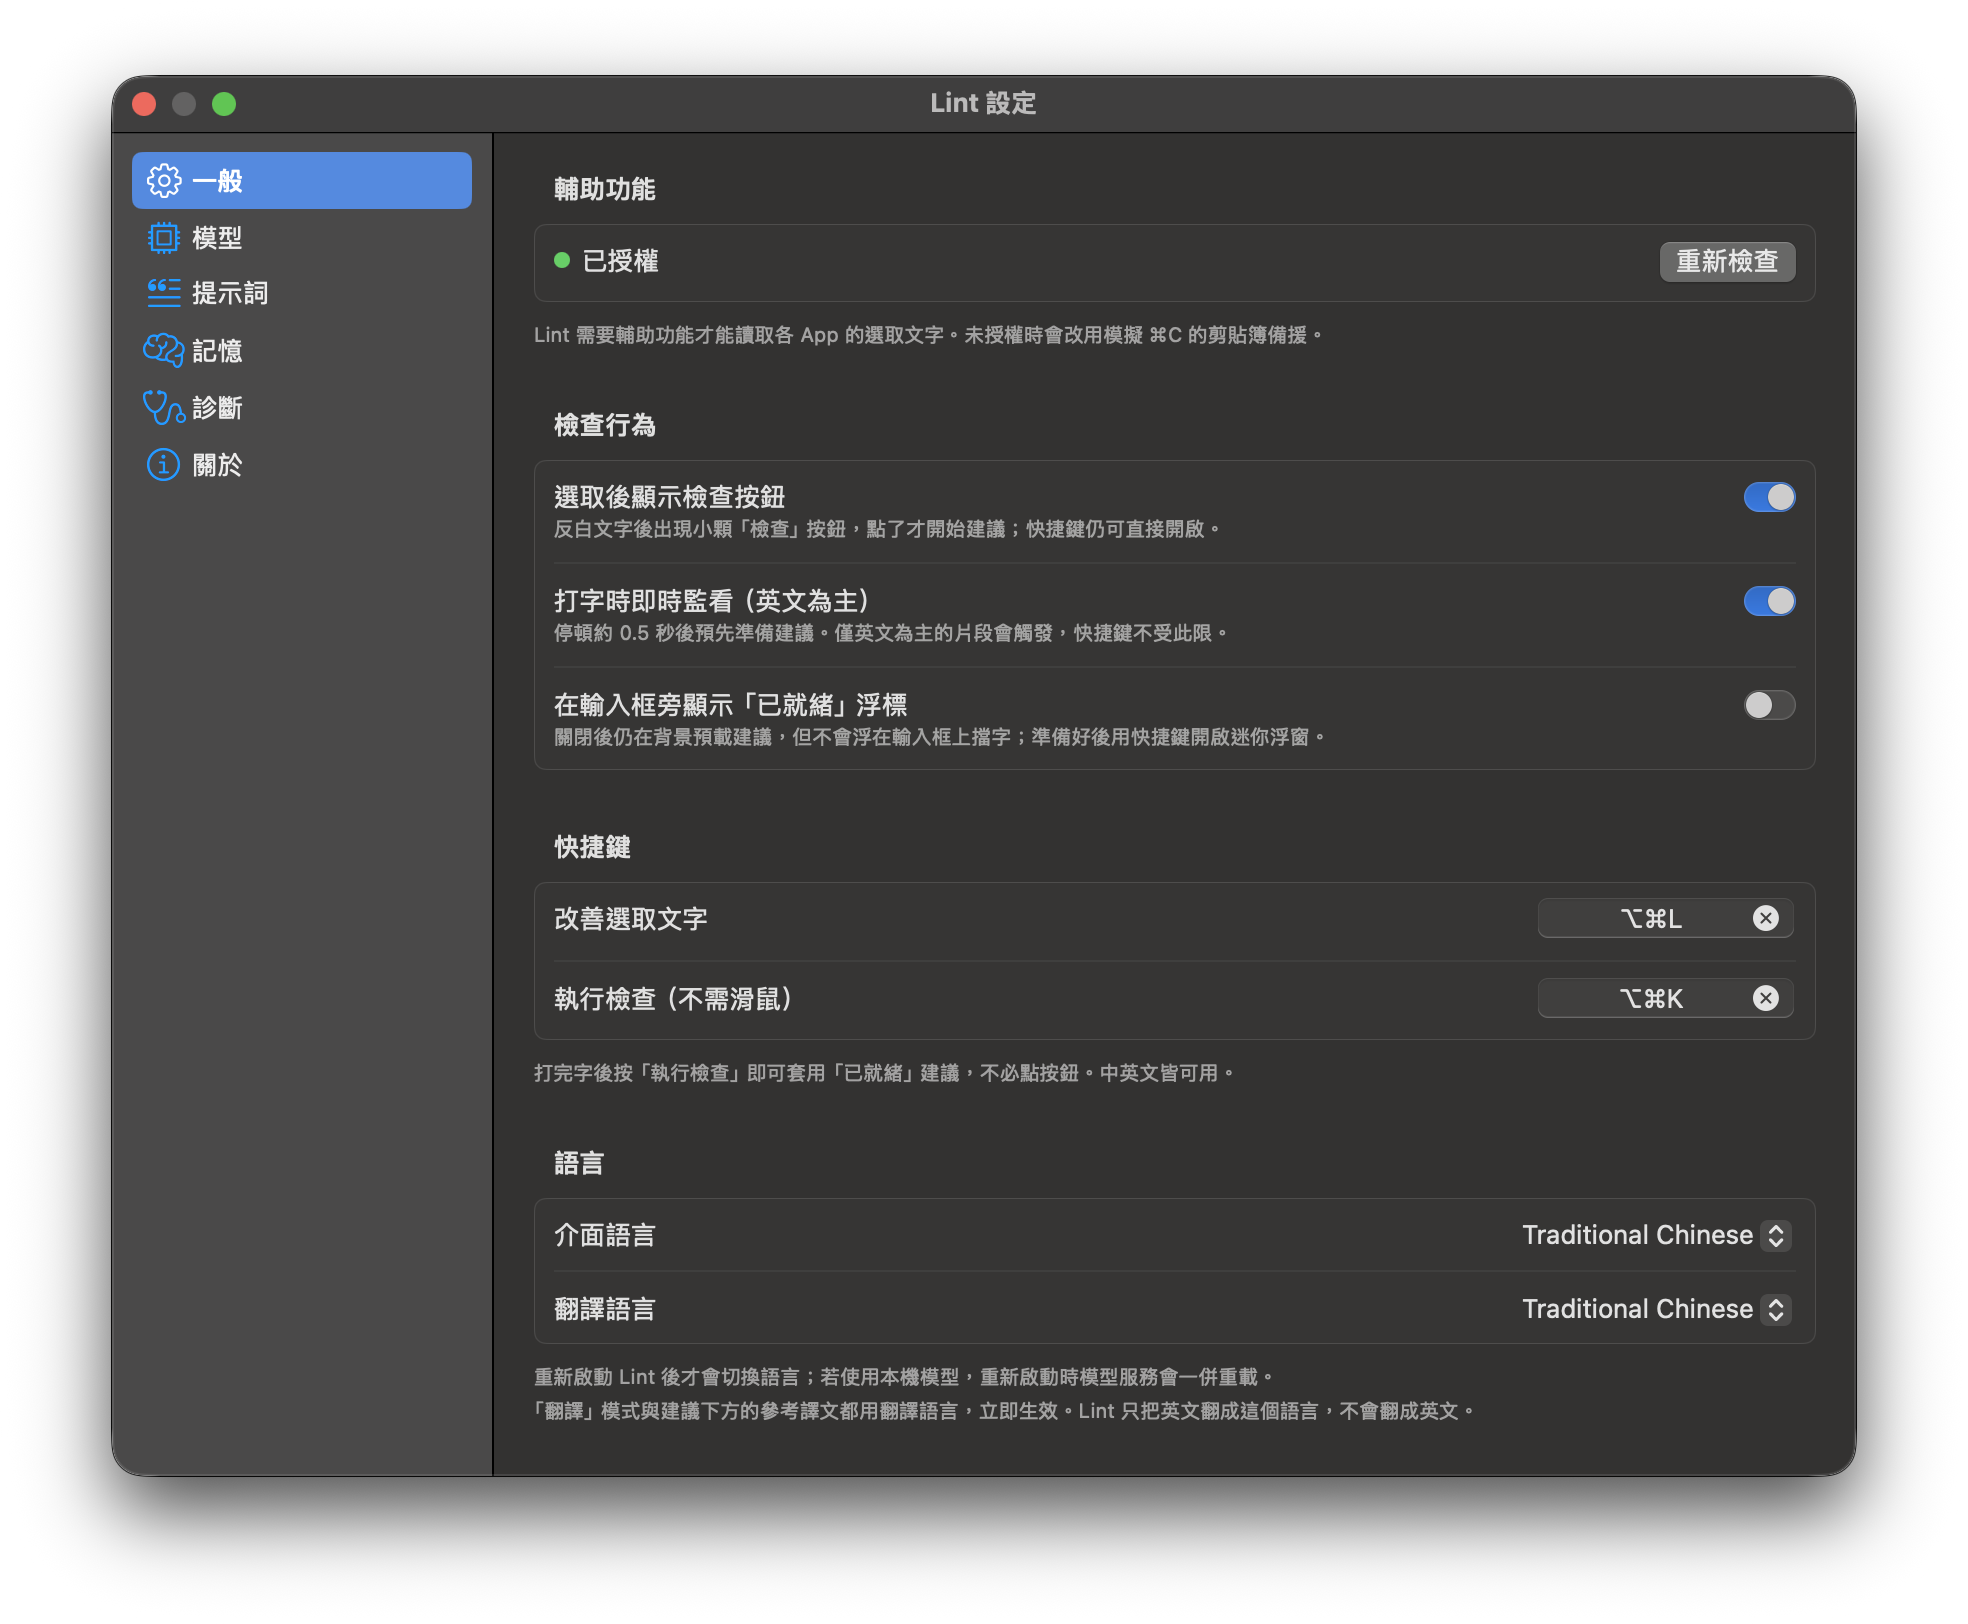
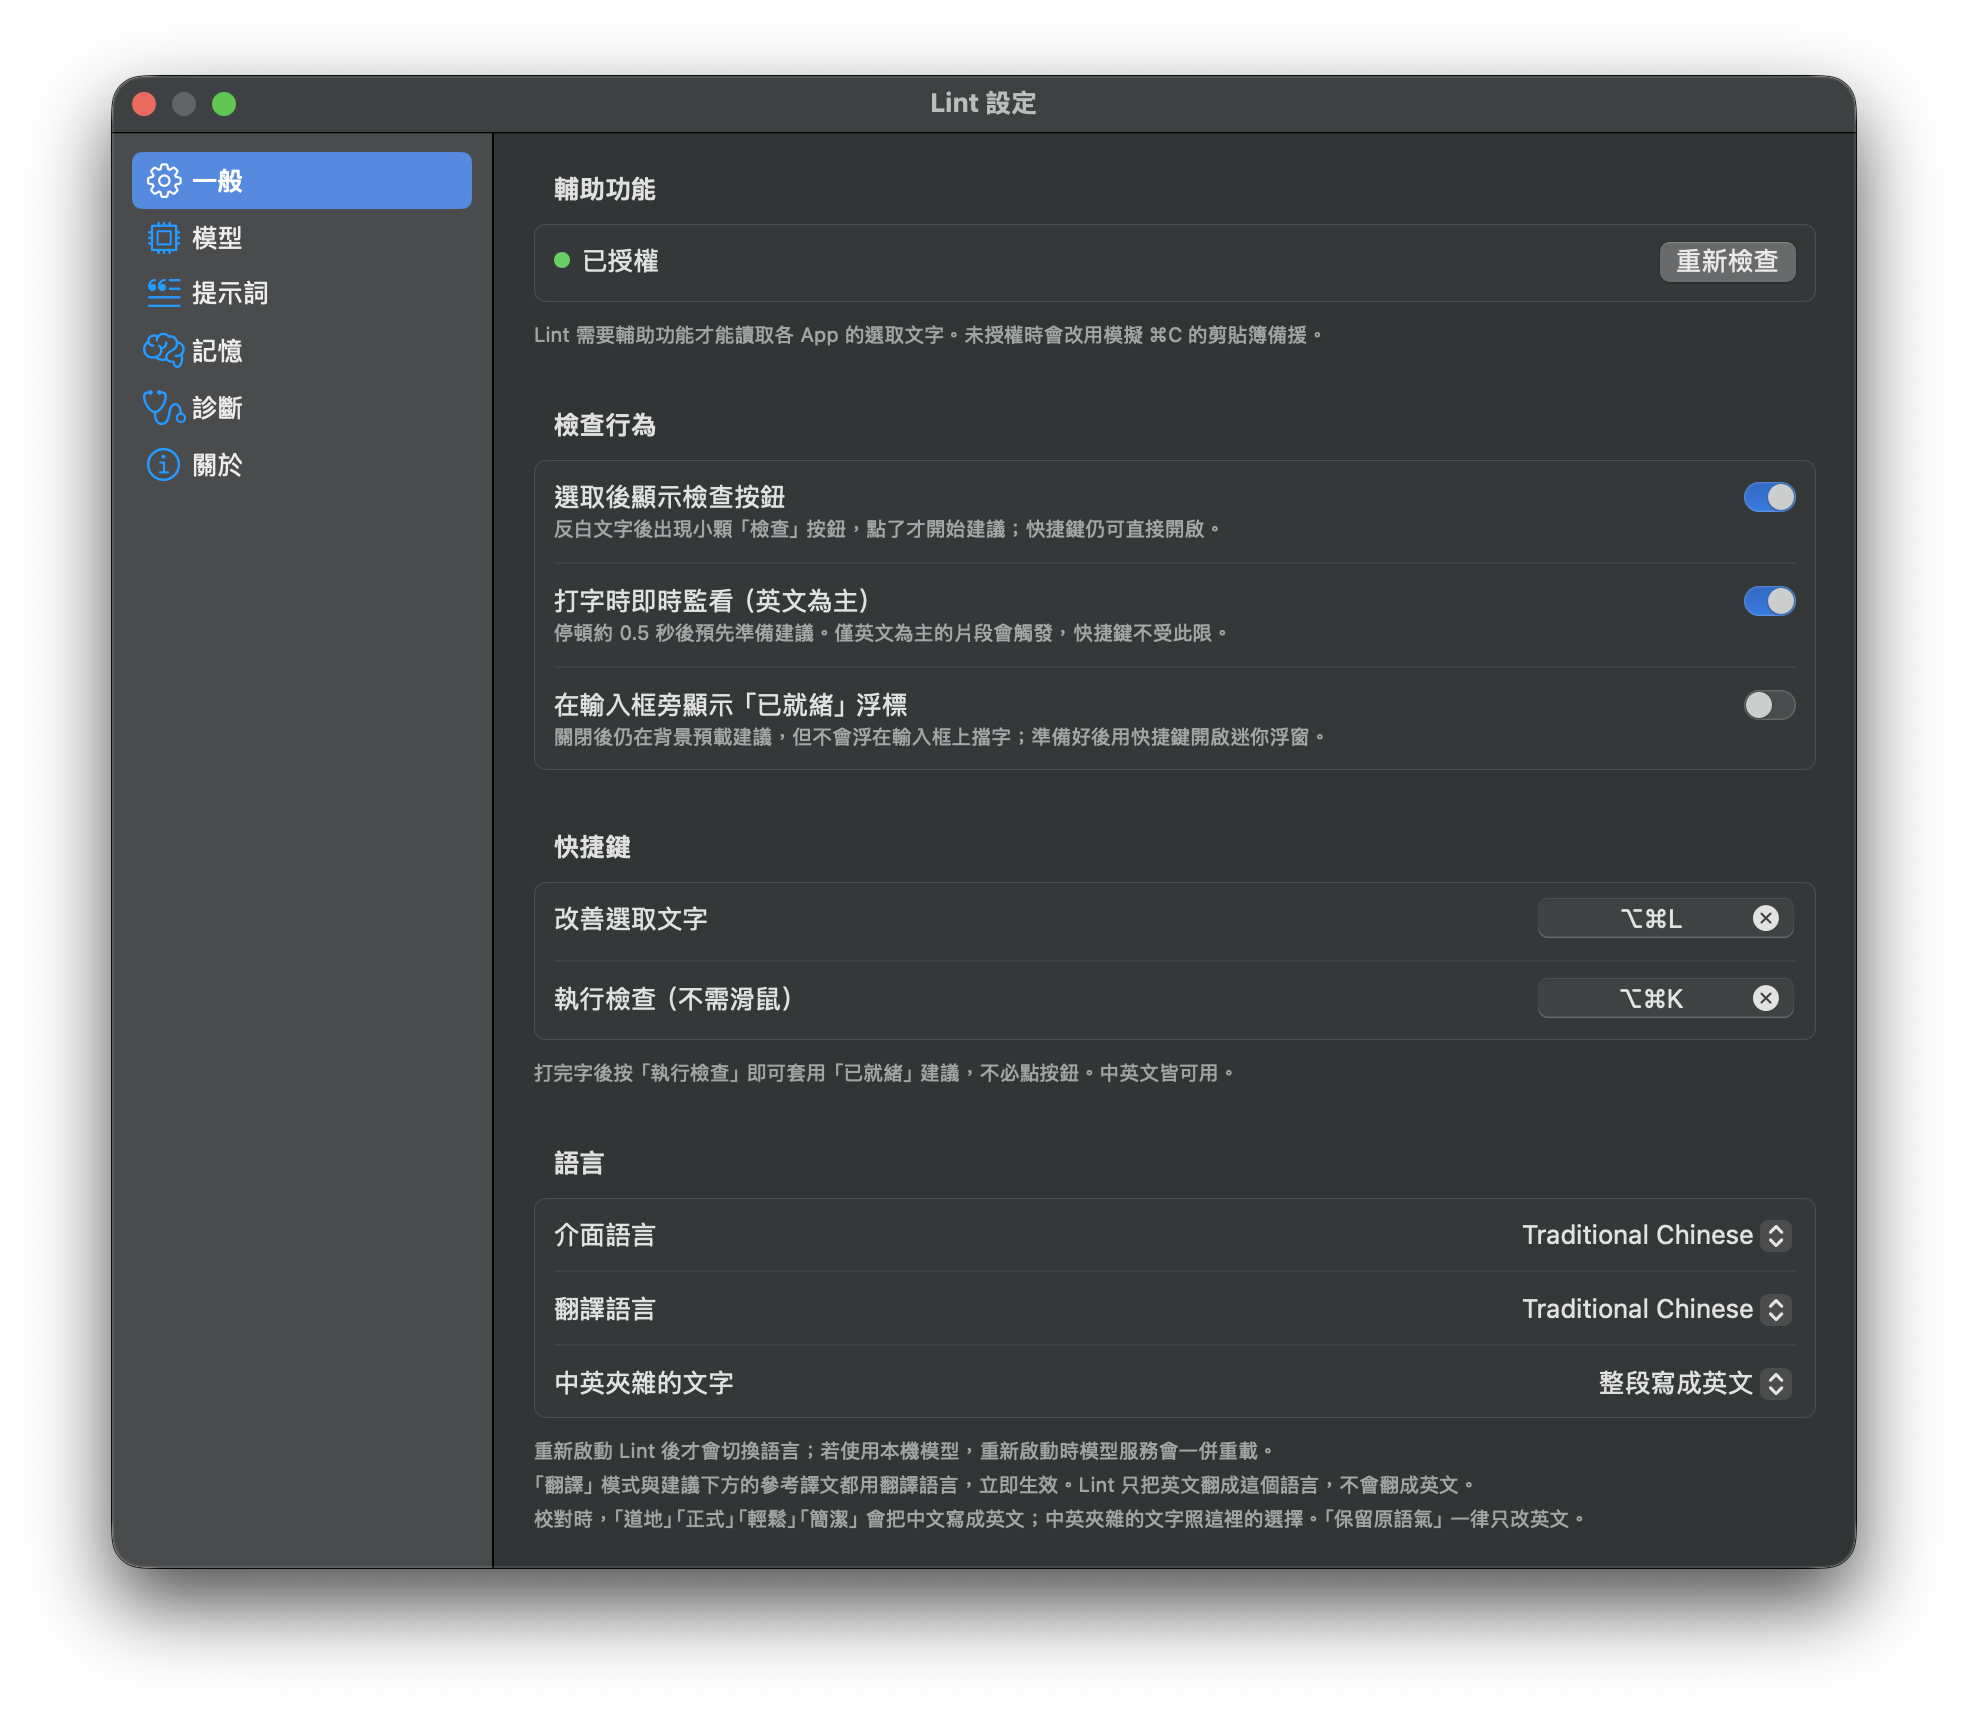
Show the five tones and the mixed-text setting in the guide.
A new screenshot of the menu bar menu with the Tone submenu open (Preserve Tone, Idiomatic, then Formal, Casual, Concise), under the menu's own, and the General settings pane retaken with the "Mixed Chinese and English" choice, in English and Traditional Chinese. Taken from the notarized 0.9.0 build in an isolated copy (Apple Intelligence as the engine, its own settings and home folder); re-encoded in Display P3 at 72 dpi without other metadata.

diff --git a/docs/guide.html b/docs/guide.html
@@ -400,6 +400,11 @@
           <a class="shot zh" href="assets/guide/zh/menu.png" target="_blank" rel="noopener"><img src="assets/guide/zh/menu.png" alt="選單列中的 Lint 選單，展開了本機模型那一行" width="649" height="329" loading="lazy"></a>
           <figcaption><span class="en">The menu under Lint's icon, with the local model row open.</span><span class="zh">Lint 圖示下的選單，展開了本機模型那一行。</span></figcaption>
         </figure>
+        <figure>
+          <a class="shot en" href="assets/guide/en/menu-tones.png" target="_blank" rel="noopener"><img src="assets/guide/en/menu-tones.png" alt="The Lint menu with the Tone submenu open: Preserve Tone, Idiomatic, Formal, Casual and Concise" width="426" height="329" loading="lazy"></a>
+          <a class="shot zh" href="assets/guide/zh/menu-tones.png" target="_blank" rel="noopener"><img src="assets/guide/zh/menu-tones.png" alt="Lint 選單展開了「語氣」：保留原語氣、道地、正式、輕鬆、簡潔" width="399" height="329" loading="lazy"></a>
+          <figcaption><span class="en">The five tones: how much to change (Preserve Tone, Idiomatic), then a style (Formal, Casual, Concise).</span><span class="zh">五種語氣：先選改多少（保留原語氣、道地），再選風格（正式、輕鬆、簡潔）。</span></figcaption>
+        </figure>
       </article>
     </section>
 
@@ -414,8 +419,8 @@
         <p class="en">Accessibility status, <strong>Check Behavior</strong> (the Check button, watching while you type, the “Ready” chip), <strong>Shortcuts</strong> (change <span class="kbd-inline">⌥⌘L</span> and <span class="kbd-inline">⌥⌘K</span>), <strong>Language</strong> (the interface language, one of nine or the system's, after a restart; and the translation language, Traditional Chinese by default) and <strong>Updates</strong> (ask before installing, install automatically or only check, every launch, day, week or month).</p>
         <p class="zh">輔助功能狀態、<strong>「檢查行為」</strong>（「檢查」按鈕、打字時即時監看、「已就緒」浮標）、<strong>「快捷鍵」</strong>（可更改 <span class="kbd-inline">⌥⌘L</span> 與 <span class="kbd-inline">⌥⌘K</span>）、<strong>「語言」</strong>（介面語言可選九種語言或跟隨系統，重新啟動後套用；翻譯語言預設繁體中文），以及<strong>「更新」</strong>（手動更新、自動更新或只檢查；每次啟動、每天、每週或每月）。</p>
         <figure>
-          <a class="shot en" href="assets/guide/en/settings-general.png" target="_blank" rel="noopener"><img src="assets/guide/en/settings-general.png" alt="Settings, General pane" width="984" height="812" loading="lazy"></a>
-          <a class="shot zh" href="assets/guide/zh/settings-general.png" target="_blank" rel="noopener"><img src="assets/guide/zh/settings-general.png" alt="設定的「一般」頁" width="984" height="812" loading="lazy"></a>
+          <a class="shot en" href="assets/guide/en/settings-general.png" target="_blank" rel="noopener"><img src="assets/guide/en/settings-general.png" alt="Settings, General pane" width="984" height="916" loading="lazy"></a>
+          <a class="shot zh" href="assets/guide/zh/settings-general.png" target="_blank" rel="noopener"><img src="assets/guide/zh/settings-general.png" alt="設定的「一般」頁" width="984" height="858" loading="lazy"></a>
           <figcaption><span class="en">General.</span><span class="zh">一般。</span></figcaption>
         </figure>
         <figure>
